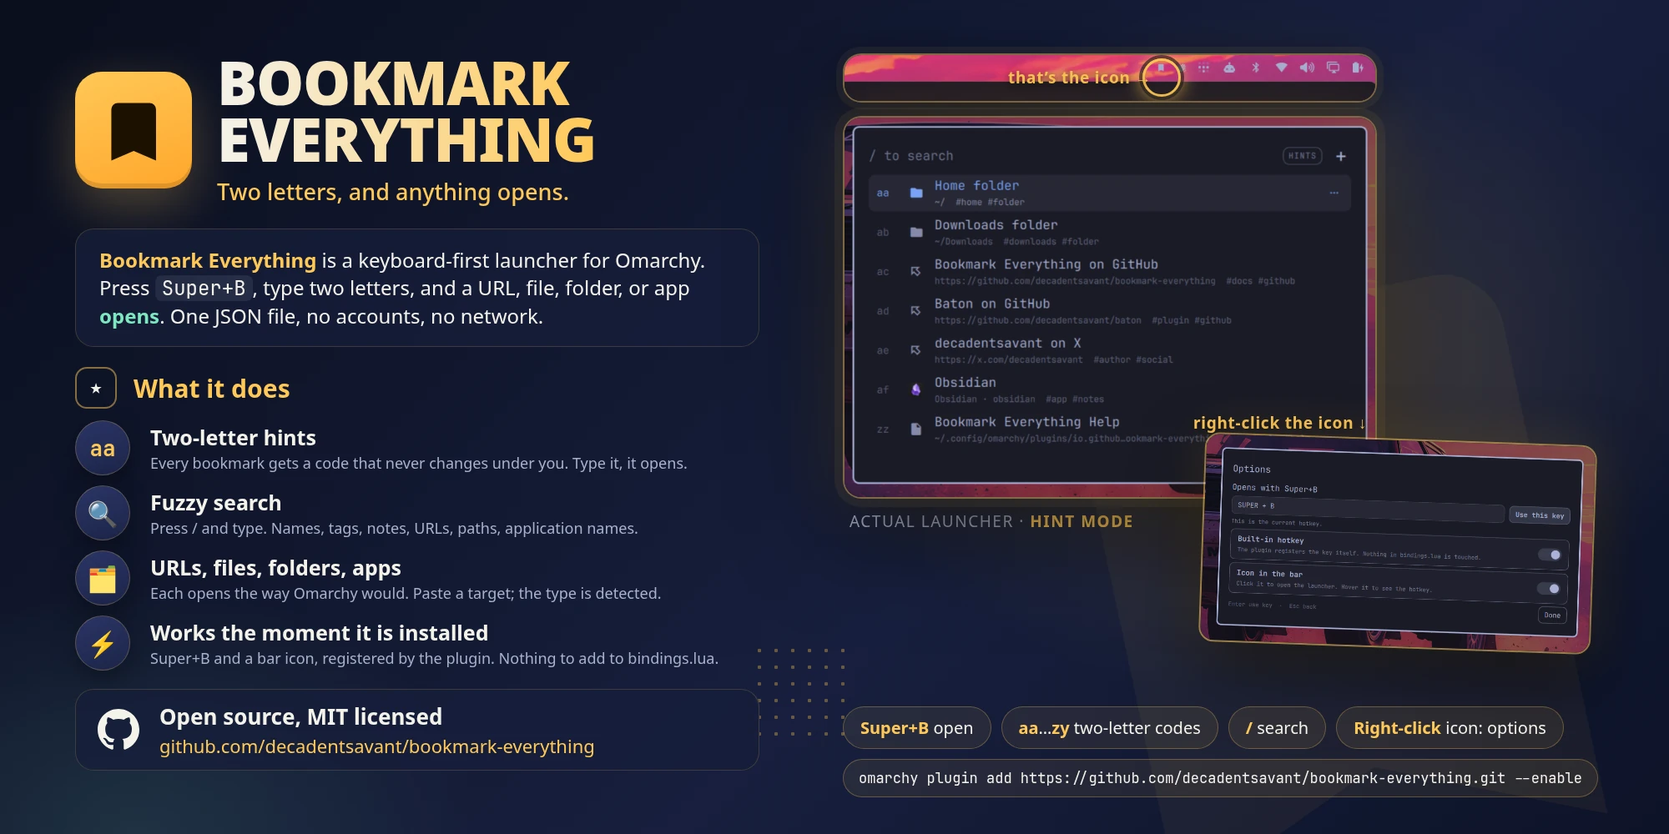
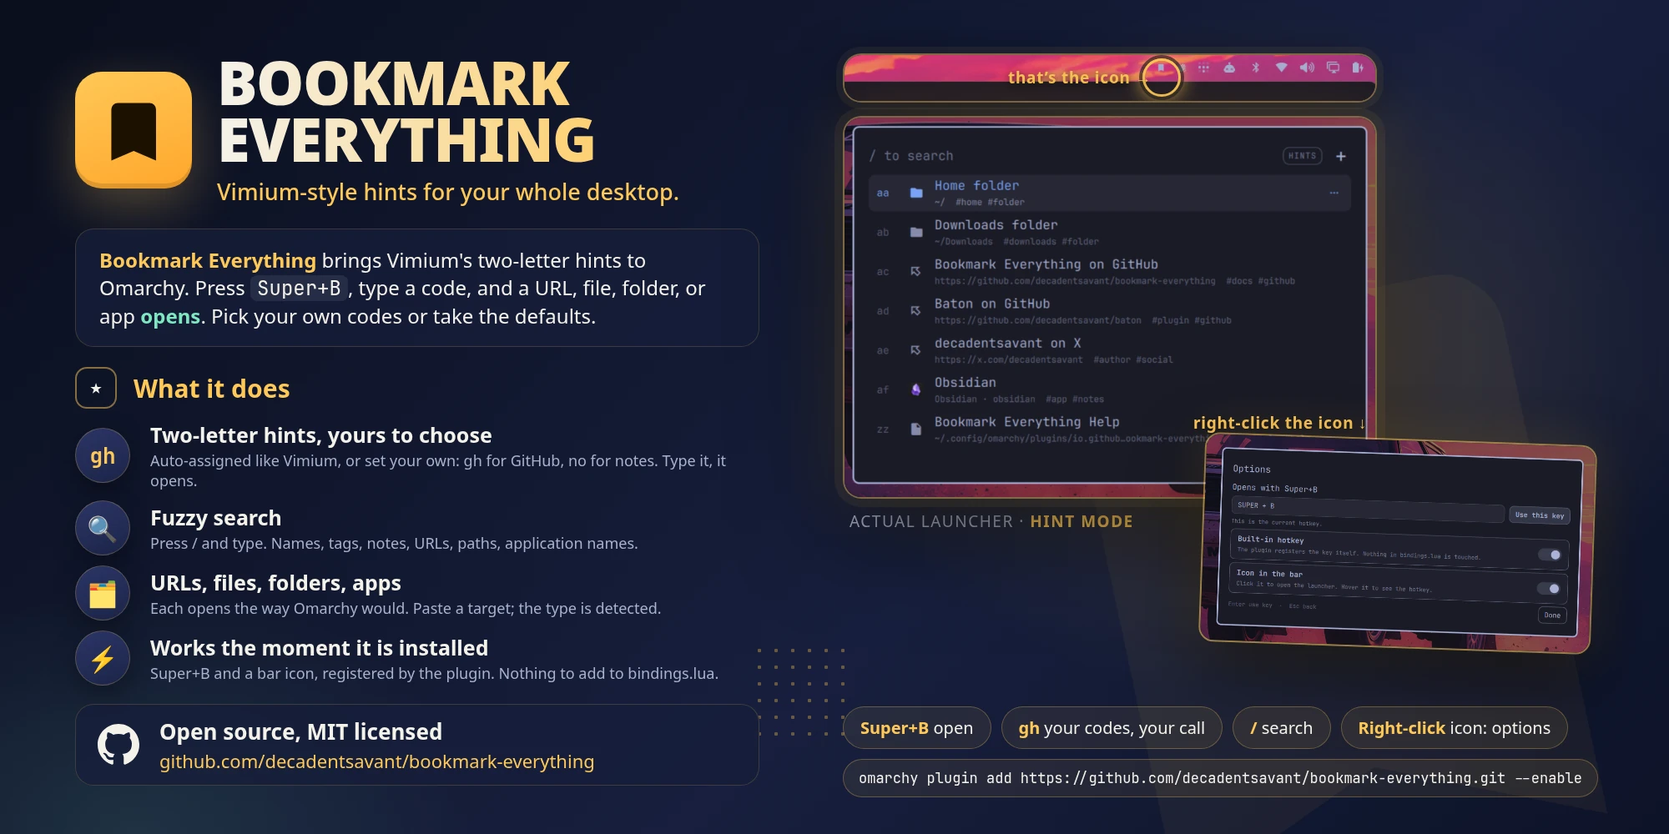
Vimium framing, custom codes made obvious, concise help page

diff --git a/help.html b/help.html
@@ -7,152 +7,124 @@
 <style>
   :root { color-scheme: light dark; --fg: #1f2328; --bg: #ffffff; --muted: #656d76; --line: #d0d7de; --accent: #0969da; --code: #f6f8fa; }
   @media (prefers-color-scheme: dark) { :root { --fg: #e6edf3; --bg: #0d1117; --muted: #8b949e; --line: #30363d; --accent: #58a6ff; --code: #161b22; } }
-  body { margin: 0; background: var(--bg); color: var(--fg); font: 16px/1.55 system-ui, -apple-system, "Segoe UI", Roboto, sans-serif; }
-  main { max-width: 760px; margin: 0 auto; padding: 40px 24px 80px; }
-  h1 { font-size: 30px; margin: 0 0 4px; }
-  h2 { font-size: 20px; margin: 36px 0 10px; padding-bottom: 6px; border-bottom: 1px solid var(--line); }
+  body { margin: 0; background: var(--bg); color: var(--fg); font: 16px/1.5 system-ui, -apple-system, "Segoe UI", Roboto, sans-serif; }
+  main { max-width: 720px; margin: 0 auto; padding: 40px 24px 80px; }
+  h1 { font-size: 28px; margin: 0 0 4px; }
+  h2 { font-size: 19px; margin: 32px 0 8px; padding-bottom: 5px; border-bottom: 1px solid var(--line); }
+  p { margin: 8px 0; }
   p.lead { color: var(--muted); margin-top: 0; }
-  kbd { display: inline-block; padding: 1px 7px; border: 1px solid var(--line); border-bottom-width: 2px; border-radius: 6px; background: var(--code); font: 13px/1.6 ui-monospace, SFMono-Regular, Menlo, monospace; }
+  kbd { display: inline-block; padding: 0 6px; border: 1px solid var(--line); border-bottom-width: 2px; border-radius: 5px; background: var(--code); font: 13px/1.6 ui-monospace, SFMono-Regular, Menlo, monospace; }
   code, pre { font: 13.5px/1.5 ui-monospace, SFMono-Regular, Menlo, monospace; background: var(--code); border-radius: 6px; }
   code { padding: 1px 5px; }
-  pre { padding: 12px 14px; overflow-x: auto; }
-  table { border-collapse: collapse; width: 100%; margin: 8px 0 4px; }
-  th, td { text-align: left; padding: 7px 10px; border-bottom: 1px solid var(--line); vertical-align: top; }
-  th { color: var(--muted); font-weight: 600; font-size: 13px; text-transform: uppercase; letter-spacing: .04em; }
-  td:first-child { white-space: nowrap; }
+  pre { padding: 10px 14px; overflow-x: auto; }
+  table { border-collapse: collapse; width: 100%; margin: 6px 0 4px; }
+  td { text-align: left; padding: 5px 10px 5px 0; border-bottom: 1px solid var(--line); vertical-align: top; }
+  td:first-child { white-space: nowrap; width: 1%; padding-right: 18px; }
+  ul { padding-left: 20px; margin: 6px 0; }
+  li { margin: 3px 0; }
   a { color: var(--accent); }
-  .tip { border-left: 3px solid var(--accent); padding: 6px 14px; margin: 14px 0; background: var(--code); border-radius: 0 6px 6px 0; }
 </style>
 </head>
 <body>
 <main>
 <h1>Bookmark Everything</h1>
-<p class="lead">A keyboard-first launcher for bookmarked URLs, files, folders, and applications. Local only. No accounts, no network.</p>
+<p class="lead">Vimium-style hints for URLs, files, folders, and apps. Type two letters, it opens.</p>
 
-<h2>Open the launcher</h2>
+<h2>Open</h2>
 <table>
-<tr><th>Key</th><th>What it does</th></tr>
-<tr><td><kbd>Super</kbd> + <kbd>B</kbd></td><td>Toggle the launcher in the configured mode (Hints by default). If that key was already taken when the plugin loaded, another one was chosen; see <a href="#hotkey">Hotkey</a>.</td></tr>
-<tr><td>Bookmark icon in the bar</td><td>Click to open. Hover to see the current hotkey. Right-click for options.</td></tr>
-<tr><td><code>bkmke</code></td><td>The same from a terminal. Try <code>bkmke help</code> for the other subcommands.</td></tr>
+<tr><td><kbd>Super</kbd>+<kbd>B</kbd></td><td>Open or close the launcher. (Another key if that one was taken; hover the bar icon to see which.)</td></tr>
+<tr><td>Bar icon</td><td>Click: open. Right-click: options.</td></tr>
+<tr><td><code>bkmke</code></td><td>Same, from a terminal. <code>bkmke help</code> lists subcommands.</td></tr>
 </table>
 
-<h2 id="hotkey">Hotkey</h2>
-<p>The plugin registers its key by itself when it loads, so nothing needs editing. It prefers <kbd>Super</kbd> + <kbd>B</kbd>. If something on your machine already uses that, it takes the first free key from a short list (<kbd>Super</kbd> + <kbd>Alt</kbd> + <kbd>B</kbd> first) and tells you once with a notification.</p>
+<h2>Hints</h2>
+<p>Each bookmark shows a two-letter code on the left. Type it and the bookmark opens. Typing the first letter narrows the list.</p>
+<p>Codes are assigned automatically (<code>aa</code>, <code>ab</code>, …). To pick your own, edit the bookmark and type it in the <b>Hint</b> field: <code>gh</code> for GitHub, <code>no</code> for notes. <code>zz</code> always opens this page.</p>
 <table>
-<tr><th>To…</th><th>Do this</th></tr>
-<tr><td>See the current key</td><td>Hover the bookmark icon in the bar. Omarchy's own keybindings menu (<kbd>Super</kbd> + <kbd>K</kbd>) lists it as “Bookmark Everything”.</td></tr>
-<tr><td>Change it</td><td>Right-click the bar icon, or click the gear at the bottom of the launcher (<kbd>Ctrl</kbd> + <kbd>K</kbd>). The Options screen shows what opens the launcher now. Type a combination such as <code>SUPER + ALT + B</code> and press <kbd>Enter</kbd>. A key something else already uses is refused, with the reason.</td></tr>
-<tr><td>Turn the built-in key off</td><td>The <em>Built-in hotkey</em> toggle on the Options screen, or <code>bkmke hotkey off</code>. The screen then shows the exact line to add to <code>~/.config/hypr/bindings.lua</code> if you want to bind the launcher yourself.</td></tr>
-<tr><td>Hide the icon in the bar</td><td>The <em>Icon in the bar</em> toggle on the Options screen, or <code>bkmke icon off</code>. The launcher stays loaded and the hotkey keeps working; remember it, since it is then the only way in.</td></tr>
-<tr><td>Use a key that is already taken</td><td>Free it first. For an Omarchy default or one of your own, add <code>hl.unbind("SUPER + B")</code> (with the key in question) to <code>~/.config/hypr/bindings.lua</code>; for another plugin, change that plugin's key. Then choose it here.</td></tr>
-</table>
-<p>Why type instead of press: Hyprland acts on a bound combination before the launcher could see it, so “press the keys you want” would launch whatever holds them.</p>
-<div class="tip">The key lives in the running compositor, not in a file under <code>~/.config/hypr</code>. It is put back after <code>hyprctl reload</code> and removed when the plugin is disabled or removed. If you already bound the launcher yourself in <code>bindings.lua</code>, the plugin sees the key in use and leaves it to you.</div>
-
-<h2>Hint mode</h2>
-<p>Every bookmark has a stable two-letter code shown in the left column. Type the two letters and the bookmark opens immediately. Typing the first letter narrows the list to matching codes.</p>
-<table>
-<tr><th>Key</th><th>Action</th></tr>
-<tr><td><kbd>a</kbd>…<kbd>z</kbd> ×2</td><td>Launch the bookmark with that hint code</td></tr>
-<tr><td><kbd>zz</kbd> or <kbd>?</kbd></td><td>Open this help page (zz is reserved for it)</td></tr>
-<tr><td><kbd>/</kbd> or <kbd>Tab</kbd></td><td>Switch to Search mode</td></tr>
-<tr><td><kbd>↑</kbd> <kbd>↓</kbd> then <kbd>Enter</kbd></td><td>Move the highlight and launch it</td></tr>
-<tr><td><kbd>+</kbd> or <kbd>Ctrl</kbd>+<kbd>N</kbd></td><td>Add a bookmark</td></tr>
-<tr><td><kbd>Ctrl</kbd>+<kbd>V</kbd></td><td>Add whatever URL or path is on the clipboard</td></tr>
-<tr><td><kbd>Ctrl</kbd>+<kbd>A</kbd></td><td>Add installed applications in bulk (see below)</td></tr>
+<tr><td><kbd>a</kbd>–<kbd>z</kbd> twice</td><td>Open that bookmark</td></tr>
+<tr><td><kbd>/</kbd> or <kbd>Tab</kbd></td><td>Search</td></tr>
+<tr><td><kbd>↑</kbd> <kbd>↓</kbd> <kbd>Enter</kbd></td><td>Highlight and open</td></tr>
+<tr><td><kbd>+</kbd> or <kbd>Ctrl</kbd>+<kbd>N</kbd></td><td>Add</td></tr>
+<tr><td><kbd>Ctrl</kbd>+<kbd>V</kbd></td><td>Add the URL or path on the clipboard</td></tr>
+<tr><td><kbd>Ctrl</kbd>+<kbd>A</kbd></td><td>Add apps in bulk</td></tr>
 <tr><td><kbd>Ctrl</kbd>+<kbd>E</kbd></td><td>Edit the highlighted bookmark</td></tr>
-<tr><td><kbd>Delete</kbd>, <kbd>Backspace</kbd>, or <kbd>Ctrl</kbd>+<kbd>D</kbd></td><td>Delete the highlighted bookmark (asks first). Backspace first erases a half-typed code, and in Search mode it only edits the search text.</td></tr>
-<tr><td><kbd>Ctrl</kbd>+<kbd>I</kbd> / <kbd>Ctrl</kbd>+<kbd>O</kbd></td><td>Import from / export to a JSON file</td></tr>
+<tr><td><kbd>Delete</kbd>, <kbd>Backspace</kbd>, <kbd>Ctrl</kbd>+<kbd>D</kbd></td><td>Delete it (asks first)</td></tr>
+<tr><td><kbd>Ctrl</kbd>+<kbd>I</kbd> / <kbd>Ctrl</kbd>+<kbd>O</kbd></td><td>Import / export</td></tr>
+<tr><td><kbd>Ctrl</kbd>+<kbd>K</kbd> or the gear</td><td>Options</td></tr>
+<tr><td><kbd>?</kbd> or <kbd>zz</kbd></td><td>This page</td></tr>
 <tr><td><kbd>Esc</kbd></td><td>Clear a half-typed code, then close</td></tr>
 </table>
 
-<h2>Search mode</h2>
-<p>Type to filter. Matching is fuzzy and runs over the name, tags, notes, URL or path, and the application name. All the shortcuts above still work here, except that letters go into the search box.</p>
+<h2>Search</h2>
+<p>Press <kbd>/</kbd> and type. Matches names, tags, notes, URLs, paths, and app names. Letters go to the search box; the shortcuts above still work.</p>
 <table>
-<tr><th>Key</th><th>Action</th></tr>
-<tr><td><kbd>↑</kbd> <kbd>↓</kbd> then <kbd>Enter</kbd></td><td>Choose and launch</td></tr>
-<tr><td><kbd>Ctrl</kbd>+<kbd>Backspace</kbd> / <kbd>Ctrl</kbd>+<kbd>U</kbd></td><td>Delete the last word / clear the search</td></tr>
-<tr><td><kbd>Esc</kbd></td><td>Clear the search, then go back to Hints (or close, if the launcher opened in Search mode)</td></tr>
+<tr><td><kbd>↑</kbd> <kbd>↓</kbd> <kbd>Enter</kbd></td><td>Choose and open</td></tr>
+<tr><td><kbd>Ctrl</kbd>+<kbd>Backspace</kbd> / <kbd>Ctrl</kbd>+<kbd>U</kbd></td><td>Delete a word / clear</td></tr>
+<tr><td><kbd>Esc</kbd></td><td>Clear, then back to Hints</td></tr>
 </table>
 
 <h2>Mouse</h2>
 <ul>
-<li>Click a row to launch it. Right-click, or click the <strong>⋯</strong> on the highlighted row, for Open / Edit / Delete.</li>
-<li>The <strong>+</strong> in the header adds a bookmark. The <strong>HINTS</strong> / <strong>SEARCH</strong> badge switches mode.</li>
-<li>Click outside the card to close.</li>
+<li>Click a row to open it. Right-click, or the <b>⋯</b> on the highlighted row: Open / Edit / Delete.</li>
+<li><b>+</b> adds. <b>HINTS</b> / <b>SEARCH</b> switches mode. The gear opens Options. Click outside to close.</li>
 </ul>
 
-<h2>Adding and editing</h2>
-<p>The Add dialog has Type (URL, File or folder, Application), Name, Target, Tags, Notes, and Hint fields. <kbd>Tab</kbd> moves between fields, <kbd>Enter</kbd> saves, <kbd>Esc</kbd> cancels.</p>
+<h2>Add and edit</h2>
+<p>Fields: Type, Name, Target, Tags, Notes, Hint. <kbd>Tab</kbd> next field, <kbd>Enter</kbd> save, <kbd>Esc</kbd> cancel.</p>
 <ul>
-<li>Pasting a URL into Target selects <em>URL</em> automatically; typing a path selects <em>File or folder</em>. Whether it is saved as a file or a folder is decided when you save, from what is actually on disk.</li>
-<li>For <em>File or folder</em>, the Target field works like a shell: press <kbd>Tab</kbd> in the empty field to start browsing from your home folder, then <kbd>Tab</kbd> extends to the common prefix and cycles through matches; <kbd>↑</kbd> <kbd>↓</kbd> browse the list and <kbd>Enter</kbd> accepts (a folder keeps descending). <kbd>Ctrl</kbd>+<kbd>Space</kbd>, or the <strong>Places</strong> button, opens a picker of folders and files you already use: your Files sidebar bookmarks, zoxide's most-visited folders, and recent files. Nothing extra to install; sources you don't have are skipped.</li>
-<li>For <em>Application</em>, the Target field becomes a picker: press <kbd>Enter</kbd> or start typing to search installed applications.</li>
-<li>Name is optional. It defaults to the site host, the file name, or the application name.</li>
-<li>Hint is auto-assigned to the next free code. If you type a code another bookmark already uses, the form says <em>Swaps with …</em> and, on save, the two bookmarks trade codes: the other one takes the code this entry had (or would have been given). The <strong></strong> button next to the field, or <kbd>Ctrl</kbd>+<kbd>R</kbd>, restores the default code.</li>
-<li>Saving checks that the target exists (paths), looks like a URL, or matches an installed application.</li>
+<li><b>Target:</b> paste a URL or type a path; the type is detected. File or folder is decided from what is on disk.</li>
+<li><b>Paths complete like a shell:</b> <kbd>Tab</kbd> in the empty field browses from home; <kbd>Tab</kbd> again extends or cycles; <kbd>↑</kbd> <kbd>↓</kbd> <kbd>Enter</kbd> pick. <kbd>Ctrl</kbd>+<kbd>Space</kbd> or <b>Places</b> lists folders and files you already use (file-manager sidebar, zoxide, recent files).</li>
+<li><b>Application:</b> the Target field becomes a picker; type to search installed apps.</li>
+<li><b>Name</b> is optional: defaults to the site, file, or app name.</li>
+<li><b>Hint:</b> pre-filled with the next free code. Type your own two letters instead. If another bookmark has that code, the two swap. The reset button beside the field, or <kbd>Ctrl</kbd>+<kbd>R</kbd>, restores the default.</li>
 </ul>
 
-<h2>Adding many applications at once</h2>
-<p>Press <kbd>Ctrl</kbd>+<kbd>A</kbd> in the launcher (or run <code>bkmke apps</code>) to open the application picker in bulk mode. The same picker appears from the Add dialog when the type is <em>Application</em>.</p>
+<h2>Add apps in bulk</h2>
+<p><kbd>Ctrl</kbd>+<kbd>A</kbd> in the launcher (or <code>bkmke apps</code>).</p>
 <table>
-<tr><th>Key</th><th>Action</th></tr>
-<tr><td><kbd>Space</kbd> or click</td><td>Select or deselect the highlighted application</td></tr>
-<tr><td><kbd>Ctrl</kbd>+<kbd>A</kbd></td><td>Select every application currently listed. Type a filter first to narrow the list, or leave it empty to select all installed applications.</td></tr>
-<tr><td><kbd>Enter</kbd></td><td>Add every selected application as its own bookmark (name, icon, and notes come from the desktop entry, tagged <code>app</code>). Applications already bookmarked are skipped.</td></tr>
-<tr><td><kbd>Esc</kbd></td><td>Clear the selection, then the filter, then leave the picker</td></tr>
+<tr><td><kbd>Space</kbd> or click</td><td>Select / deselect</td></tr>
+<tr><td><kbd>Ctrl</kbd>+<kbd>A</kbd></td><td>Select everything listed (type a filter first to narrow it)</td></tr>
+<tr><td><kbd>Enter</kbd></td><td>Add the selected apps. Ones already bookmarked are skipped.</td></tr>
+<tr><td><kbd>Esc</kbd></td><td>Clear selection, then filter, then leave</td></tr>
 </table>
 
-<h2>Bookmark types</h2>
+<h2>Types</h2>
 <table>
-<tr><th>Type</th><th>Target</th><th>Opens with</th></tr>
-<tr><td>URL</td><td><code>https://…</code> (bare domains get <code>https://</code>)</td><td>Default browser via <code>xdg-open</code></td></tr>
-<tr><td>File</td><td>Absolute path, <code>~/</code> allowed</td><td>Default application via <code>xdg-open</code></td></tr>
-<tr><td>Folder</td><td>Absolute path, <code>~/</code> allowed</td><td>File manager via <code>xdg-open</code></td></tr>
-<tr><td>Application</td><td>Desktop entry id, e.g. <code>firefox</code></td><td>Launched the same way as the Omarchy app menu</td></tr>
+<tr><td>URL</td><td><code>https://…</code> (bare domains get <code>https://</code>). Opens in the default browser.</td></tr>
+<tr><td>File</td><td>Path, <code>~/</code> allowed. Opens in its default app.</td></tr>
+<tr><td>Folder</td><td>Path, <code>~/</code> allowed. Opens in the file manager.</td></tr>
+<tr><td>Application</td><td>Desktop entry id, e.g. <code>firefox</code>. Launches like the app menu.</td></tr>
 </table>
+<p>A missing file, folder, or app is shown struck through; opening it sends a notification. Restore it and the mark clears.</p>
 
-<h2>Missing targets</h2>
-<p>A bookmark whose application is not installed, or whose file or folder no longer exists, is shown struck through with a <em>not installed</em> / <em>file missing</em> / <em>folder missing</em> note. Launching it sends a notification instead of failing silently. The check runs every time the launcher opens, so reinstalling the app or restoring the file clears the flag. Imports also report any applications they could not match.</p>
-
-<h2>Where things live</h2>
-<pre>~/.config/omarchy/bookmark-everything.json              your bookmarks (plain JSON, edit freely)
-~/.config/omarchy/bookmark-everything.json.bak-&lt;time&gt;  automatic backup taken before each import
-~/.config/omarchy/plugins/io.github.decadentsavant.bookmark-everything/      the plugin itself (this page included)
-~/.config/omarchy/shell.json                  open mode, see below
-~/.config/omarchy/bookmark-everything.settings.json  your hotkey choice; created the first time you change it</pre>
-<p>An entry looks like this. The file reloads automatically when you edit it by hand; missing hints or ids are filled in.</p>
-<pre>{
-  "id": "pacman-cheatsheet",
-  "hint": "aa",
-  "type": "file",
-  "name": "Pacman &amp; Yay Cheatsheet",
-  "target": "~/Documents/pacman-yay-cheatsheet.html",
-  "tags": ["linux", "arch", "reference"],
-  "notes": "Common package commands"
-}</pre>
-
-<h2>Settings</h2>
-<p>Open mode is set on the plugin's entry in <code>~/.config/omarchy/shell.json</code>:</p>
-<pre>"plugins": [
-  { "id": "io.github.decadentsavant.bookmark-everything", "openMode": "search" }
-]</pre>
-<p>The hotkey is covered <a href="#hotkey">above</a>. To open straight into Search from a second key of your own, pass a mode in the payload from <code>~/.config/hypr/bindings.lua</code>:</p>
-<pre>o.bind("SUPER + SHIFT + B", "Bookmark search", "omarchy-shell shell summon io.github.decadentsavant.bookmark-everything '{\"mode\":\"search\"}'")</pre>
+<h2>Options</h2>
+<p>Right-click the bar icon, or <kbd>Ctrl</kbd>+<kbd>K</kbd> / the gear in the launcher.</p>
+<ul>
+<li><b>Hotkey:</b> type a combination such as <code>SUPER + ALT + B</code> and press <kbd>Enter</kbd>. A key already in use is refused and named. To use it anyway, free it first in <code>~/.config/hypr/bindings.lua</code> (<code>hl.unbind("SUPER + B")</code>).</li>
+<li><b>Built-in hotkey off:</b> the screen shows the line to add to <code>bindings.lua</code> if you want to bind it yourself.</li>
+<li><b>Icon in the bar:</b> hide or show it. The hotkey keeps working either way.</li>
+</ul>
 
 <h2>Import and export</h2>
-<p>Both use the same JSON format as the storage file. Import merges: an entry with the same id replaces the old one, new ids are appended, and any imported hint that collides with an existing one is reassigned so your codes stay stable. A backup is written before the merge.</p>
-<pre>bookmarks export                 # ~/bookmark-everything-export-&lt;date&gt;.json
-bkmke export ~/my.json
-bkmke import ~/my.json
-bkmke add https://example.com
-bkmke add .                  # bookmark the current folder
-bkmke add docs/notes.md      # relative paths are resolved
-bkmke clip                   # add from clipboard
-bkmke apps                   # pick installed applications, multi-select
-bkmke search                 # open in Search mode</pre>
-<div class="tip">There are 675 usable hint codes (aa–zy). Bookmarks beyond that are still reachable in Search mode.</div>
+<p><kbd>Ctrl</kbd>+<kbd>O</kbd> writes all bookmarks to a JSON file. <kbd>Ctrl</kbd>+<kbd>I</kbd> merges one in: same id replaces, new ids are added, clashing hints are reassigned. Your file is backed up first.</p>
+
+<h2>Files</h2>
+<pre>~/.config/omarchy/bookmark-everything.json           bookmarks (plain JSON, edit freely; reloads on save)
+~/.config/omarchy/bookmark-everything.settings.json  hotkey choice, created when you change it</pre>
+<pre>{ "hint": "aa", "type": "url", "name": "Arch Wiki", "target": "https://wiki.archlinux.org", "tags": ["linux"], "notes": "" }</pre>
+<p>To open in Search mode by default, add <code>"openMode": "search"</code> to the plugin's entry under <code>plugins</code> in <code>~/.config/omarchy/shell.json</code>.</p>
+
+<h2>Command line</h2>
+<pre>bkmke                    open or close
+bkmke search             open in Search mode
+bkmke add . | &lt;url|path&gt;  add (relative paths resolve)
+bkmke clip               add from clipboard
+bkmke apps               add apps in bulk
+bkmke import | export    JSON in / out
+bkmke hotkey [combo|off] show, set, or turn off the hotkey
+bkmke icon on|off        show or hide the bar icon
+bkmke options            open Options</pre>
+<p>675 codes (<code>aa</code>–<code>zy</code>) are available; anything beyond that is still reachable by search.</p>
 </main>
 </body>
 </html>

diff --git a/dev/listing/listing.html b/dev/listing/listing.html
@@ -81,18 +81,18 @@
     <div class="tile"><span class="g">&#xF00C0;</span></div>
     <div>
       <h1>BOOKMARK<br>EVERYTHING</h1>
-      <div class="tag">Two letters, and anything opens.</div>
+      <div class="tag">Vimium-style hints for your whole desktop.</div>
     </div>
   </div>
 
   <div class="card blurb">
-    <b>Bookmark Everything</b> is a keyboard-first launcher for Omarchy. Press <span class="k">Super+B</span>,
-    type two letters, and a URL, file, folder, or app <i>opens</i>. One JSON file, no accounts, no network.
+    <b>Bookmark Everything</b> brings Vimium's two-letter hints to Omarchy. Press <span class="k">Super+B</span>,
+    type a code, and a URL, file, folder, or app <i>opens</i>. Pick your own codes or take the defaults.
   </div>
 
   <div class="head"><div class="ic">★</div><span>What it does</span></div>
   <div class="feat">
-    <div class="ic t">aa</div><div><h3>Two-letter hints</h3><p>Every bookmark gets a code that never changes under you. Type it, it opens.</p></div>
+    <div class="ic t">gh</div><div><h3>Two-letter hints, yours to choose</h3><p>Auto-assigned like Vimium, or set your own: gh for GitHub, no for notes. Type it, it opens.</p></div>
     <div class="ic">🔍</div><div><h3>Fuzzy search</h3><p>Press / and type. Names, tags, notes, URLs, paths, application names.</p></div>
     <div class="ic">🗂</div><div><h3>URLs, files, folders, apps</h3><p>Each opens the way Omarchy would. Paste a target; the type is detected.</p></div>
     <div class="ic">⚡</div><div><h3>Works the moment it is installed</h3><p>Super+B and a bar icon, registered by the plugin. Nothing to add to bindings.lua.</p></div>
@@ -115,7 +115,7 @@
 
 <div class="foot">
   <div class="pill"><b>Super+B</b> open</div>
-  <div class="pill"><b>aa</b>…<b>zy</b> two-letter codes</div>
+  <div class="pill"><b>gh</b> your codes, your call</div>
   <div class="pill"><b>/</b> search</div>
   <div class="pill"><b>Right-click</b> icon: options</div>
   <div class="pill mono cmd">omarchy plugin add https://github.com/decadentsavant/bookmark-everything.git --enable</div>

diff --git a/README.md b/README.md
@@ -1,10 +1,11 @@
 # Bookmark Everything
 
-**Two letters, and anything opens.**
+**Vimium-style hints for your whole desktop.**
 
-A keyboard-first launcher for [Omarchy](https://omarchy.org). Bookmark the
-URLs, files, folders, and apps you reach for every day, then open any of them
-with a two-letter code. No mouse, no menus, no arrow keys.
+A keyboard-first launcher for [Omarchy](https://omarchy.org), inspired by
+[Vimium](https://vimium.github.io/). Bookmark the URLs, files, folders, and
+apps you reach for every day; each gets a two-letter code, auto-assigned or
+chosen by you. Type the code and it opens. No mouse, no menus, no arrow keys.
 
 ![Bookmark Everything: the launcher in hint mode, its bar icon, and the Options screen](preview.webp)
 
@@ -27,14 +28,18 @@ The file manager only knows files. The things you open twenty times a day
 are scattered across all three, and every one of them wants you to type a
 name, scan a list, and click.
 
-Bookmark Everything puts them in one place and gives each a code your hands
-learn in a day. `aa` is your project folder. `gh` is GitHub. `no` is Obsidian.
-Codes never change under you, so muscle memory does the work and the launcher
-is closed before you've finished thinking about it.
+Bookmark Everything puts them in one place and does what Vimium does for
+links: every entry gets a two-letter code. Take the defaults (`aa`, `ab`, …)
+or set your own when you add or edit a bookmark: `gh` for GitHub, `no` for
+Obsidian, `pr` for your project folder. Codes never change under you, so your
+hands learn them in a day and the launcher is closed before you've finished
+thinking about it.
 
 ## How it feels
 
-- **Super+B, `a`, `a`.** The bookmark opens. Two letters, no Enter.
+- **Super+B, `g`, `h`.** GitHub opens. Two letters, no Enter.
+- **Your codes.** Type any two letters into the Hint field when you add or
+  edit a bookmark. Already taken? The two bookmarks swap.
 - **Forgot the code?** Press `/` and type a few letters. Search covers names,
   tags, notes, URLs, paths, and app names, and is instant with a thousand
   entries.
@@ -84,7 +89,7 @@ Everything below is for when you want more than the defaults.
 
 | Key | Hint mode |
 |-----|-----------|
-| `a`…`z` twice | Open the bookmark with that code |
+| `a`…`z` twice | Open the bookmark with that code (set your own in the Hint field when adding or editing) |
 | `/` or Tab | Switch to Search mode |
 | ↑ ↓ then Enter | Move the highlight and open it |
 | `+` or Ctrl+N | Add a bookmark |
